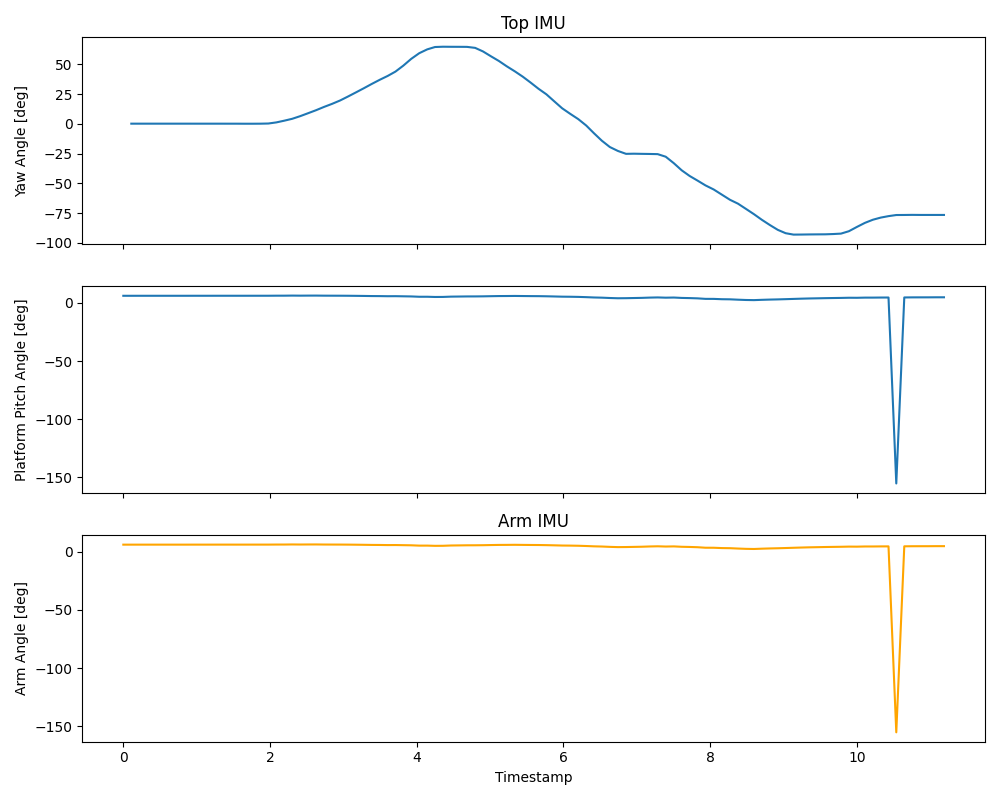
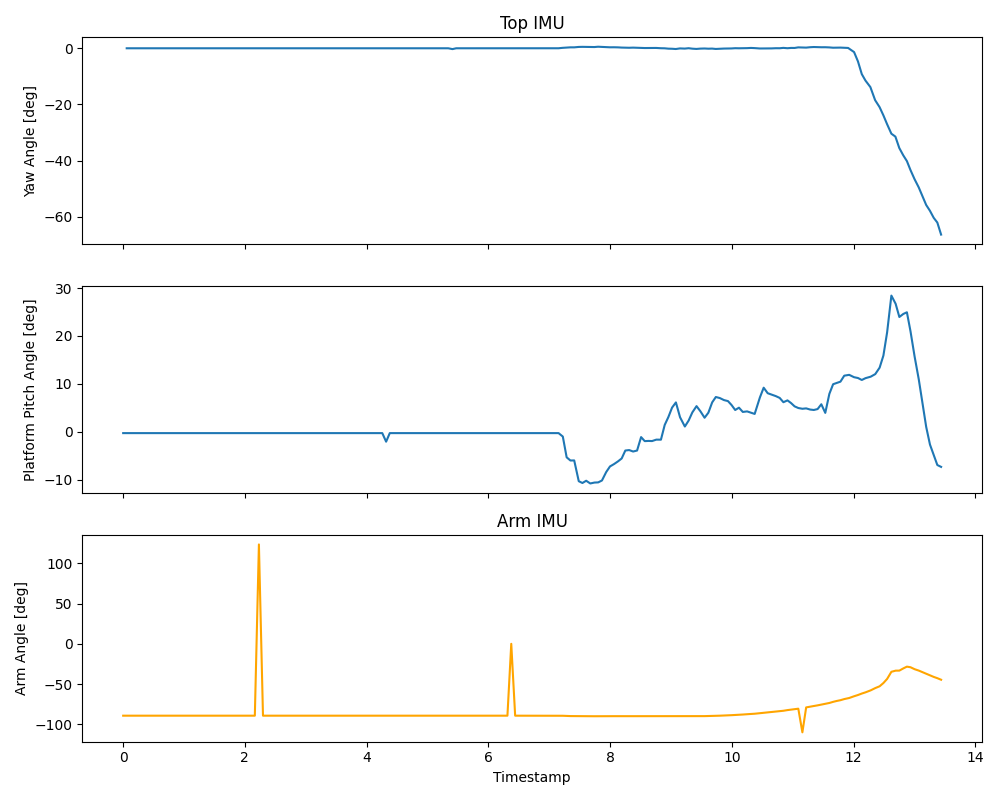
Saved

diff --git a/main.py b/main.py
@@ -20,9 +20,11 @@ from HardwareComponents.Camera import RPiCamera
 from HardwareComponents.IMU import AdafruitBNO055
 from HardwareComponents.DCMotor import DCMotor
 from HardwareComponents.StepperMotor import BaseStepperMotor, LeadscrewStepperMotor
-#from utilities.decorators import time_this_func
-#from utilities.path_management import PROJECT_ROOT_PATH, LOGS_DIR
+from utilities.path_management import PROJECT_ROOT_PATH, LOGS_DIR
 from test.plotIMU import LoggerManager #Logger 
+
+# CONFIG CONSTANTS ------------------------------------------------------------
+CAMERA_OFFSET_THRESHOLD = 50  # [cm] the threshold within which the offset is deemed acceptable hence stop tracking
 
 # FUNCTION WRAPPERS FOR DIFFERENT PROCESSES -----------------------------------
 def update_IMU_readings(yaw_deg, pitch_deg, arm_deg, stopEvent: mp.Event):
@@ -50,93 +52,92 @@ def update_IMU_readings(yaw_deg, pitch_deg, arm_deg, stopEvent: mp.Event):
         time.sleep(0.05)
     
     
-def update_camera_readings(delta_R, delta_theta, stopEvent: mp.Event):
+def update_camera_readings(delta_x: mp.Value, delta_R: mp.Value, stopEvent: mp.Event):
     """
     Update camera readings into the R and theta variables in place.
     """
     
-    camera = RPiCamera(calibration_path=Path(__file__).parent / "arucoRPi/calibration.yaml")
+    calibration_path = Path(PROJECT_ROOT_PATH, "arucoRPi/calibration.yaml")
+    camera = RPiCamera(str(calibration_path))
     
     while not stopEvent.is_set():
-        start_time = time.time()
         camera.update_frame()
-        x, y, z = camera.estimate_coordinates(log=False)
-        logger_manager.log_camera_position((x,y,z)) #logging
-
-        print("Camera outputs are: ", x, y, z)
-
+        x, y, z = camera.estimate_coordinates(log=False, save_dir = LOGS_DIR / "Images" / "aruco_tracking")
+        
         # Guard clause: when no marker is detected
-        if z < 0:
+        if (x == y == z == -1):
+            delta_x.value = 0  # Signal Base Stepper to stop
             delta_R.value = 0  # Signal DC motor to stop
             print("No marker detected.")
-            end_time = time.time()
-            duration = end_time - start_time
-            print(f'Camera code executed in {duration} seconds')
             continue
         
-        y = -y  # 'estimate_coordinates' return y positive downwards, so recalibrate it with htis
-        
-        r = np.sqrt(x**2 + y**2)
-        theta = np.arctan2(y, x)
-        
-        # When angle is lower than zero, the marker is located at third or fourth
-        # quadrant, so a retraction is required.
-        if theta < 0:
-            delta_R.value = -r
-        delta_theta.value = theta
-        
-        print(delta_R.value)
-        print(delta_theta.value)
-        
-        end_time = time.time()
-        duration = end_time - start_time
-        print(f'Camera code executed in {duration} seconds')
+        # Setting values
+        print("One marker detected!")
+        delta_x.value = -x  # 'estimate_coordinates' return +ve x anti-clockwise. Calibrate it to +ve clockwise.
+        delta_R.value = -y  # 'estimate_coordinates' return +ve y backward. Calibrate it to +ve forward.
+               
 
-def move_arm(stopEvent: mp.Event):
-    
+def forward_tracking(delta_R: mp.Value, stopEvent: mp.Event):
+    """
+    Actuate DC motors to track the aruco marker based on camera readings 
+    provided by thread `update_camera_readings`
+    """    
     dcMotor = DCMotor(In1=17, In2=27, EN=18)
-    
-    time.sleep(5)
+    time.sleep(3)  # For motor to warmup
     
     while not stopEvent.is_set():
-        dcMotor.forward(duration=1.5)
-        dcMotor.backward(duration=1.8)  # FOR THE SAME 
         
+        # The convention is R is positive forward
+        if delta_R.value > CAMERA_OFFSET_THRESHOLD:
+            print("----- DC Motor ----- : Going forward")
+            dcMotor.forward(dutyCycle=100)
+        elif delta_R.value < (-1 * CAMERA_OFFSET_THRESHOLD):
+            print("----- DC Motor ----- : Going backwards")
+            dcMotor.backward(dutyCycle=100)
+        else:
+            print("----- DC Motor ----- : Stop")
+            dcMotor.stop()      
+            
     dcMotor.stop()
-    GPIO.cleanup()
     
 
-# Only track radius changes for now
-def track_marker(delta_R, delta_theta, stopEvent: mp.Event):
-    
-    dcMotor = DCMotor(In1=17, In2=27, EN=18)
-    time.sleep(5)
+def side_tracking(delta_x: mp.Value, stopEvent: mp.Event):
+    """
+    Actuate base stepper motor to track the aruco marker based on camera
+    readings provided by thread 'update_camera_readings'
+    """
+    baseMotor = BaseStepperMotor() 
+    time.sleep(3)  # For motor to warmup
     
     while not stopEvent.is_set():
-        if delta_R > 0:  # Require extension
-            dcMotor.forward(duration=0.1)
-        elif delta_R < 0:  # Require retraction
-            dcMotor.backward(duration=0.1)
-        else:  # Stop the motor (happens when no marker detected)
-            dcMotor.stop()
-
-    dcMotor.stop()
-    GPIO.cleanup()
         
+        # The convention is x is positive clockwise
+        if delta_x.value > CAMERA_OFFSET_THRESHOLD:
+            print("----- Base Motor ----- : Going clockwise")
+            baseMotor.spin(steps=10, sleep_time=0.0002, clockwise=True)
+        elif delta_x.value < (-1 * CAMERA_OFFSET_THRESHOLD):
+            print("----- Base Motor ----- : Going anticlockwise")
+            baseMotor.spin(steps=10, sleep_time=0.0002, clockwise=False)
+        else:
+            print("----- Base Motor ----- : Stop")
+        
+    GPIO.cleanup()
+
+  
 def balance_platform(pitch: mp.Value, stopEvent: mp.Event):
     
     Leadscrew = LeadscrewStepperMotor(dir_pin=20, step_pin=21)
     
     time.sleep(5)
     
-    time_sleep = 0.0006 # This has been proved to be consistent
+    time_sleep = 0.0005 # This has been proved to be consistent
     # steps = 1
     
     while not stopEvent.is_set():
-        if pitch.value >= 2:  # Retracts
+        if pitch.value >= 4:  # Retracts
             Leadscrew.single_spin(sleep_time=time_sleep, clockwise=False)
             # Leadscrew.spin(steps=steps, sleep_time=time_sleep, clockwise=False)  # Retracts to reduce pitch
-        elif pitch.value <= -2:  # Extends
+        elif pitch.value <= -4:  # Extends
             Leadscrew.single_spin(sleep_time=time_sleep, clockwise=True)
             # Leadscrew.spin(steps=steps, sleep_time=time_sleep, clockwise=True)  # Extends to increase pitch
         # time.sleep(time_sleep)
@@ -147,15 +148,15 @@ def balance_platform(pitch: mp.Value, stopEvent: mp.Event):
 # MAIN CODE -------------------------------------------------------------------
 if __name__ == "__main__":
 
-    # ===== Initial Setup =====
-    yaw = mp.Value('f', 0.0)    # Store yaw angle of platform
-    pitch = mp.Value('f', 0.0)  # Store the pitch angle of platform (for balancing purposes)
-    alpha = mp.Value('f', 0.0)  # Store the arm angle
-    delta_R = mp.Value('f', 0.0)  # Radial difference between centre of camera and marker
-    delta_theta = mp.Value('f', 0.0)  # Yaw difference between centre of camera and marker
+    # ===== Parameter setup =====
+    yaw = mp.Value('f', 0.0)      # Current yaw angle of the arm [deg]
+    pitch = mp.Value('f', 0.0)    # Current pitch value of the platform [deg]
+    alpha = mp.Value('f', 0.0)    # Current arm angle [deg]
+    delta_x = mp.Value('f', 0.0)  # Horizontal distance between camera and marker [cm]
+    delta_R = mp.Value('f', 0.0)  # Vertical distance between camera and marker [cm]
 
-    #File name to log data
-    log_file_path = Path(__file__).parent / 'logs/test2.log'
+    # File name to log data
+    log_file_path = Path(__file__).parent / 'logs/main.log'
     logger_manager = LoggerManager(log_file_path)
 
     # Global Stop Event
@@ -163,11 +164,11 @@ if __name__ == "__main__":
 
     # ===== Initiate processes =====
     processes = [
-        mp.Process(target=update_IMU_readings, args=(yaw, pitch, alpha, stopEvent)),
-        mp.Process(target=update_camera_readings, args=(delta_R, delta_theta, stopEvent)),
-        mp.Process(target=move_arm, args=(stopEvent,)),
-        #mp.Process(target=track_marker, args=(delta_R, delta_theta, stopEvent)),
-        mp.Process(target=balance_platform, args=(pitch, stopEvent)),
+        mp.Process(target=update_IMU_readings, args=(yaw, pitch, alpha, stopEvent,)),
+        mp.Process(target=update_camera_readings, args=(delta_x, delta_R, stopEvent,)),
+        mp.Process(target=forward_tracking, args=(delta_R, stopEvent,)),
+        mp.Process(target=side_tracking, args=(delta_x, stopEvent,)),
+        mp.Process(target=balance_platform, args=(pitch, stopEvent,))
     ]
 
     # Start the processes

diff --git a/demo/aruco_tracking.py b/demo/aruco_tracking.py
@@ -60,7 +60,7 @@ def update_camera_readings(delta_x: mp.Value, delta_R: mp.Value, stopEvent: mp.E
         print("One marker detected!")
         delta_x.value = -x  # 'estimate_coordinates' return +ve x anti-clockwise. Calibrate it to +ve clockwise.
         delta_R.value = -y  # 'estimate_coordinates' return +ve y backward. Calibrate it to +ve forward.
-                
+
         
 def forward_tracking(delta_R: mp.Value, stopEvent: mp.Event):
     """
@@ -137,9 +137,6 @@ if __name__ == '__main__':
     alpha = mp.Value('f', 0.0)    # Current arm angle [deg]
     delta_x = mp.Value('f', 0.0)  # Horizontal distance between camera and marker [cm]
     delta_R = mp.Value('f', 0.0)  # Vertical distance between camera and marker [cm]
-    
-    # ===== Component setup =====
-    video_save_path = Path(LOGS_DIR, "videos/")
 
     # Global stop event
     stopEvent = mp.Event()

diff --git a/plots/plotter.py b/plots/plotter.py
@@ -12,7 +12,7 @@ import matplotlib.pyplot as plt
 from datetime import datetime
 
 # Path to your log file
-log_file_path = Path(__file__).parent.parent / 'logs/IMU_readings.log'
+log_file_path = Path(__file__).parent.parent / 'logs/main.log'
 
 # Initialize lists to hold the parsed data
 timestamps_pitch = []
@@ -78,7 +78,7 @@ axes[1].plot(timestamps_pitch, readings_pitch, label='Pitch')
 axes[1].set_ylabel('Platform Pitch Angle [deg]')
 
 # Plot Arm readings
-axes[2].plot(timestamps_pitch, readings_pitch, label='IMU_2', color='orange')
+axes[2].plot(timestamps_pitch, readings_alpha, label='IMU_2', color='orange')
 axes[2].set_title('Arm IMU')
 axes[2].set_ylabel('Arm Angle [deg]')
 
